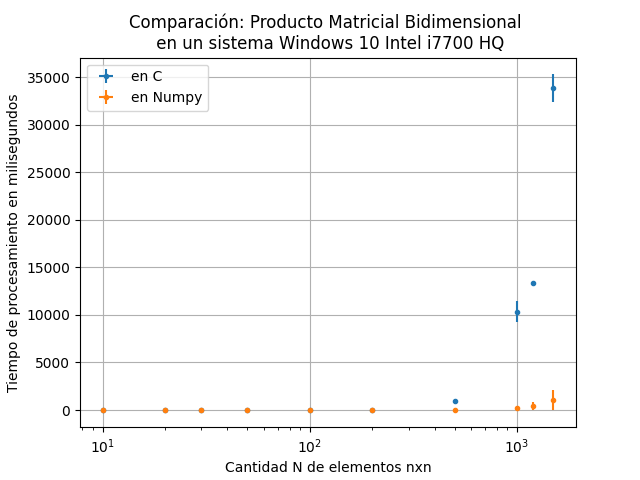
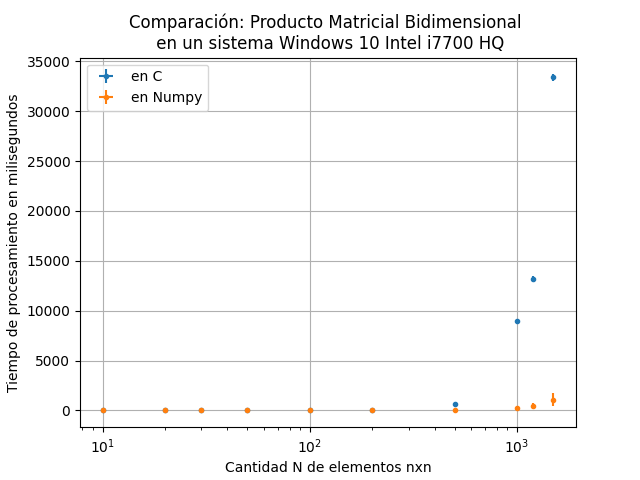
python bug fix

diff --git a/Comparaciones/mult.cpp b/Comparaciones/mult.cpp
@@ -11,13 +11,13 @@
 
 
 
-double N[]={10,20,30,50,100,200,500,1000,1200,1500,2000};  //N representa la dimension nxn de una matriz cuadrada
+int N[]={10,20,30,50,100,200,500,1000,1200,1500};  //N representa la dimension nxn de una matriz cuadrada
 
 
-int N_rep=100; //repeticiones para tener la estadística
+int N_rep=10; //repeticiones para tener la estadística
 //    |
 //    | 
-double temp[100]; //Un vector que almacena los tiempos de cada repetición 
+double temp[10]; //Un vector que almacena los tiempos de cada repetición 
 //para luego obtener el promedio y la varianza
 
 //Se busca cuidar la gestión de memoria, por lo cual se necesita reservar 
@@ -42,13 +42,13 @@ int **matrizA;  //declaramos un puntero de punteros
 int **matrizB;
 int **matrizC;
 
-double promedio; 
-double varianza;
+float promedio; 
+float varianza;
 
 
 
 LARGE_INTEGER t_ini, t_fin;
-double secs;
+float secs;
 
 FILE *fp;
 
@@ -65,7 +65,7 @@ double performancecounter_diff(LARGE_INTEGER *a, LARGE_INTEGER *b)
 
 int main()
 {
-fp = fopen ( "tiemposmatmult.csv", "w" );    
+fp = fopen ( "unix_tiemposmatmult.csv", "w" );    
 fprintf(fp,"# N elementos procesados,Tiempo Promedio[ms],STD Tiempo [ms] \n");
 
 for(int k=0;k<10;k++)     //este bucle es para cada valor de N[k]
@@ -94,8 +94,8 @@ srand(time(NULL));
 int i,j;
 for(i=0;i<N[k];i++){
 for(j=0;j<N[k];j++){
-matrizA[i][j]= rand();
-matrizB[i][j]= rand();
+matrizA[i][j]= rand()%100;
+matrizB[i][j]= rand()%100;
 }
 }
 
@@ -118,13 +118,13 @@ for(int m=0;m<N_rep;m++)  // Este bucle es para hacer la estadistica con N_rep
 		}
 	}
   	 QueryPerformanceCounter(&t_fin);
-  	 free (matrizC);
+  
   	temp[m]= 1000*performancecounter_diff(&t_fin, &t_ini);  //*1000 para que el valor sea ms
  }
 
  free (matrizA);
  free (matrizB);
-
+ free (matrizC);
 
 secs=0;
 for(int j=0;j<N_rep;j++)
@@ -142,11 +142,8 @@ secs+=pow(temp[j]-promedio,2);
 
 varianza = sqrt(secs/(N_rep-1));   //calcula la varianza
 
-printf("%.0f,%.5f,%.5f\n",N[k],promedio,varianza);
-fprintf(fp,"%.0f,%.5f,%.5f\n",N[k],promedio,varianza);
-
+fprintf(fp,"%.0d,%.5f,%.5f\n",N[k],promedio,varianza);
 }
-
 fclose (fp);
 return 0;
 }

diff --git a/Comparaciones/graf_m.py b/Comparaciones/graf_m.py
@@ -3,8 +3,8 @@ import pandas as pd
 
 import matplotlib.pyplot as plt
 
-df_c = pd.read_csv('tiemposmatmult.csv', sep=',')
-df_npy = pd.read_csv('tiemposmatmultPY.csv', sep=',')
+df_c = pd.read_csv('unix_tiemposmatmult.csv', sep=',')
+df_npy = pd.read_csv('unix_tiemposmatmultPY.csv', sep=',')
 
 
 N = df_c.iloc[:,0].values
@@ -26,7 +26,7 @@ plt.grid()
 plt.title('Comparación: Producto Matricial Bidimensional \n en un sistema Windows 10 Intel i7700 HQ')
 plt.xlabel('Cantidad N de elementos nxn')
 plt.ylabel('Tiempo de procesamiento en milisegundos')
-plt.savefig("Benchmarkmatmult.png")
+plt.savefig("unix_Benchmarkmatmult.png")
 
 
 

diff --git a/Comparaciones/matmult.py b/Comparaciones/matmult.py
@@ -5,7 +5,7 @@ import csv
 N=np.array([10,20,30,50,100,200,500,1000,1200,1500])
 
 t=[]
-N_rep=5;
+N_rep=10;
 
 
 f=open('tiemposmatmultPY.csv','w',newline="")
@@ -16,8 +16,8 @@ wr.writerow(["# N elementos procesados", "Tiempo Promedio[ms]", "STD Tiempo [ms]
 for i in N:
 
 	for j in range(0,N_rep):
-		matrizA=np.random.randint(2e8-1,size=(i,i))
-		matrizB=np.random.randint(2e8-1,size=(i,i))
+		matrizA=np.random.randint(0,101,size=(i,i))
+		matrizB=np.random.randint(0,101,size=(i,i))
 
 		inicio = time.time()
 		matrizC=np.dot(matrizA,matrizB)
